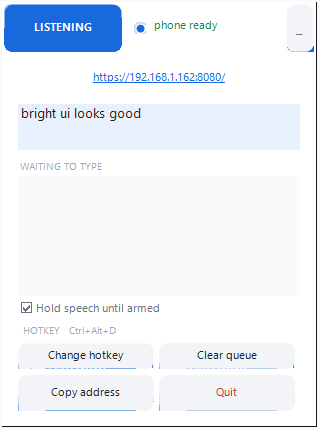
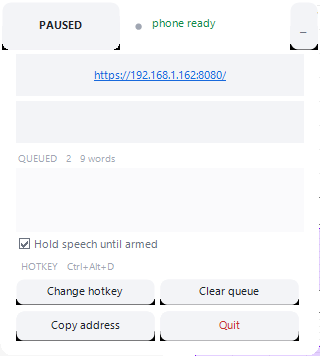
Fix aliased text: stop using TransparencyKey
TransparencyKey switches the window into a layered mode where GDI text
antialiasing is switched off, so every custom-painted string rendered
jagged. Replaced it with a Region clip in OnPaint, which keeps the rounded
corners and leaves text crisp.

Also removed the last Color.Transparent back colours. They threw before
parenting, and once parented they still route through the same layered
path, so they were part of the same problem. Every painted surface now
carries an explicit colour and each OnPaint that draws text sets
ClearTypeGridFit.

Measured it rather than eyeballing: the button label now steps 81, 120,
154, 185, 215 between ink and fill. Before, the same area had a single
grey level and hard edges.

Shortened the expanded panel from 430 to 356 and replaced the blank
120px queue area with a short explanation, which is what made the
screenshot read as broken.

diff --git a/desktop/DictationBridge.cs b/desktop/DictationBridge.cs
@@ -1360,6 +1360,7 @@ namespace DictationBridge
         public static readonly Color Warn = Color.FromArgb(184, 122, 0);
         public static readonly Color Danger = Color.FromArgb(197, 48, 48);
         public static readonly Color Shadow = Color.FromArgb(28, 32, 44);
+        public static readonly Color ShadowEdge = Color.FromArgb(216, 220, 228);
 
         public static Font Ui { get { return new Font("Segoe UI", 9F); } }
         public static Font UiSmall { get { return new Font("Segoe UI", 8.25F); } }
@@ -1421,10 +1422,11 @@ namespace DictationBridge
         {
             SetStyle(ControlStyles.AllPaintingInWmPaint | ControlStyles.UserPaint
                 | ControlStyles.OptimizedDoubleBuffer, true);
-            // Not BackColor.Transparent: a custom-painted control with that
-            // back colour throws "not a valid owner window handle" unless it is
-            // parented first. Transparent-back-colour comes from the parent at
-            // paint time instead, which is what we want anyway.
+            // Explicit, not Color.Transparent: a custom-painted control given
+            // that back colour throws "not a valid owner window handle" unless
+            // it is parented first, and once parented it still routes through
+            // the layered path that aliases text.
+            BackColor = Skin.Surface;
             Size = new Size(12, 12);
         }
 
@@ -1467,10 +1469,16 @@ namespace DictationBridge
         {
             SetStyle(ControlStyles.AllPaintingInWmPaint | ControlStyles.UserPaint
                 | ControlStyles.OptimizedDoubleBuffer, true);
+            // An explicit parent colour rather than Color.Transparent, which
+            // throws before parenting and, on a parent, still forces the
+            // layered rendering path that makes text jagged.
+            BackColor = Skin.Surface;
         }
 
         protected override void OnPaint(PaintEventArgs e)
         {
+            e.Graphics.TextRenderingHint =
+                System.Drawing.Text.TextRenderingHint.ClearTypeGridFit;
             // Graphics.DrawString wants a StringFormat, not TextFormatFlags.
             using (StringFormat f = new StringFormat())
             {
@@ -1509,6 +1517,7 @@ namespace DictationBridge
         {
             SetStyle(ControlStyles.AllPaintingInWmPaint | ControlStyles.UserPaint
                 | ControlStyles.OptimizedDoubleBuffer, true);
+            BackColor = Skin.Surface;
         }
 
         protected override void OnPaint(PaintEventArgs e)
@@ -1547,17 +1556,19 @@ namespace DictationBridge
             FlatStyle = FlatStyle.Flat;
             UseVisualStyleBackColor = false;
             FlatAppearance.BorderSize = 0;
-SetStyle(ControlStyles.AllPaintingInWmPaint | ControlStyles.UserPaint
+            SetStyle(ControlStyles.AllPaintingInWmPaint | ControlStyles.UserPaint
                 | ControlStyles.OptimizedDoubleBuffer, true);
+            BackColor = Skin.Surface;
         }
 
         protected override void OnPaint(PaintEventArgs e)
         {
             Graphics g = e.Graphics;
             g.SmoothingMode = SmoothingMode.AntiAlias;
+            g.TextRenderingHint =
+                System.Drawing.Text.TextRenderingHint.ClearTypeGridFit;
             bool hot = Enabled && IsDefault;
-            Color fill = Primary ? (hot ? Skin.Accent : Skin.Accent)
-                : (hot ? Hover : Fill);
+            Color fill = hot ? Hover : Fill;
             Color ink = Primary ? Color.White : Ink;
 
             Rectangle r = new Rectangle(0, 0, Width - 1, Height - 1);
@@ -1613,10 +1624,11 @@ SetStyle(ControlStyles.AllPaintingInWmPaint | ControlStyles.UserPaint
         private PaintText _phoneState;
         private PaintCard _lastCard;
         private Label _listHeader;
+        private Label _emptyNote;
 
         // One place that owns the sizes, so expand and collapse cannot disagree.
         private static readonly Size CollapsedSize = new Size(320, 56);
-        private static readonly Size ExpandedSize = new Size(320, 430);
+        private static readonly Size ExpandedSize = new Size(320, 356);
         private const string PositionFile = "dictation-bridge-position.txt";
 
         public MainForm(Bridge bridge, string url, HotkeyWindow hotkeys)
@@ -1643,36 +1655,18 @@ SetStyle(ControlStyles.AllPaintingInWmPaint | ControlStyles.UserPaint
             ShowInTaskbar = false;
             MinimizeBox = false;
             MaximizeBox = false;
-            Padding = new Padding(1);
-            try { DoubleBuffered = true; } catch (Exception) { }
+            Padding = new Padding(0);
+            // No TransparencyKey. It switches the window into a layered mode where
+            // GDI text antialiasing is switched off, so every custom-painted
+            // string comes out jagged. An opaque card with rounded corners is
+            // both crisper and simpler.
+            BackColor = Skin.ShadowEdge;
+            SetStyle(ControlStyles.AllPaintingInWmPaint | ControlStyles.UserPaint
+                | ControlStyles.OptimizedDoubleBuffer | ControlStyles.ResizeRedraw, true);
 
-            // Soft shadow, the detail that makes a floating panel look deliberate.
-            try
-            {
-                BackColor = Color.FromArgb(0, 0, 0);
-                TransparencyKey = Color.FromArgb(0, 0, 0);
-                var shadow = new Panel
-                {
-                    Dock = DockStyle.Fill,
-                    BackColor = Color.FromArgb(0, 0, 0),
-                    Padding = new Padding(1, 1, 2, 2)
-                };
-                Controls.Add(shadow);
-                var surface = new Panel
-                {
-                    Dock = DockStyle.Fill,
-                    BackColor = Color.FromArgb(22, 24, 28),
-                    Padding = new Padding(0, 0, 1, 1)
-                };
-                shadow.Controls.Add(surface);
-                BuildUi(surface);
-            }
-            catch (Exception)
-            {
-                // Transparency unsupported: fall back to a plain panel.
-                Controls.Clear();
-                BuildUi(this);
-            }
+            BuildUi(this);
+            ResizeRounded();
+            Resize += (s, e) => ResizeRounded();
 
             _bridge.Changed += Refresh2;
             _timer = new System.Windows.Forms.Timer { Interval = 700 };
@@ -1856,7 +1850,7 @@ private void BuildUi(Control host)
                 Font = Skin.UiSmall,
                 LinkColor = Skin.Accent,
                 ActiveLinkColor = Skin.Accent,
-                BackColor = Color.Transparent
+                BackColor = Skin.Field
             };
             _urlLink.Text = _url;
             _urlLink.LinkClicked += (s, e) => Copy(_url);
@@ -1864,21 +1858,21 @@ private void BuildUi(Control host)
             urlCard.Controls.Add(urlBg);
             urlBg.SendToBack();
 
-            // Last typed utterance, shown as a quote with an accent bar.
+// Last typed utterance, shown as a quote with an accent bar.
             var lastRow = new Panel
             {
                 Dock = DockStyle.Top,
-                Height = 58,
+                Height = 52,
                 BackColor = Skin.Surface,
-                Padding = new Padding(0, 6, 0, 6)
+                Padding = new Padding(0, 5, 0, 5)
             };
             // Only the left accent bar is painted; the fill belongs to the
             // TextBox, which sits on top of it.
             _lastCard = new PaintCard
             {
                 Dock = DockStyle.Fill,
-                Fill = Color.Transparent,
-                Corner = 0,
+                Fill = Skin.AccentSoft,
+                Corner = 8,
                 Accent = Skin.Accent
             };
             // A read-only TextBox cannot take Color.Transparent either, so the card
@@ -1928,11 +1922,24 @@ private void BuildUi(Control host)
             };
             listWrap.Controls.Add(_bufferList);
 
+            // An empty queue is a normal state, not a broken table. Say so
+            // instead of leaving a blank rectangle sitting there.
+            _emptyNote = new Label
+            {
+                Dock = DockStyle.Fill,
+                Text = "Nothing waiting.\r\n\r\nSpeak while paused and it is\r\ntyped when you press play.",
+                Font = Skin.UiSmall,
+                ForeColor = Skin.InkFaint,
+                TextAlign = ContentAlignment.MiddleCenter,
+                BackColor = Skin.Page
+            };
+            listWrap.Controls.Add(_emptyNote);
+
             // ---- footer ----------------------------------------------------
             var bottom = new TableLayoutPanel
             {
                 Dock = DockStyle.Bottom,
-                Height = 118,
+                Height = 112,
                 BackColor = Skin.Surface,
                 ColumnCount = 2,
                 RowCount = 4
@@ -1953,7 +1960,7 @@ private void BuildUi(Control host)
                 Font = Skin.UiSmall,
                 ForeColor = Skin.InkSoft,
                 FlatStyle = FlatStyle.Flat,
-                BackColor = Color.Transparent
+                BackColor = Skin.Surface
             };
             _flushBox.FlatAppearance.BorderSize = 0;
             _flushBox.CheckedChanged += (s, e) =>
@@ -2043,6 +2050,42 @@ private void BuildUi(Control host)
             c.MouseDown += OnDragStart;
             c.MouseMove += OnDragMove;
             c.MouseUp += OnDragEnd;
+        }
+
+        // Rounded corners via a Region rather than a transparency key: the shape is
+        // clipped at paint time so the card edges stay crisp and the text inside
+        // keeps GDI antialiasing.
+        private void ResizeRounded()
+        {
+            try
+            {
+                using (GraphicsPath p = Skin.RoundedPath(
+                    new Rectangle(0, 0, Width - 1, Height - 1), 12))
+                {
+                    Region = new Region(p);
+                }
+            }
+            catch (Exception) { }
+        }
+
+        protected override void OnPaint(PaintEventArgs e)
+        {
+            Graphics g = e.Graphics;
+            g.SmoothingMode = SmoothingMode.AntiAlias;
+            g.TextRenderingHint =
+                System.Drawing.Text.TextRenderingHint.ClearTypeGridFit;
+            using (SolidBrush b = new SolidBrush(Skin.Surface))
+            {
+                g.FillRectangle(b, ClientRectangle);
+            }
+            using (Pen edge = new Pen(Skin.ShadowEdge))
+            {
+                using (GraphicsPath p = Skin.RoundedPath(
+                    new Rectangle(0, 0, Width - 2, Height - 2), 12))
+                {
+                    g.DrawPath(edge, p);
+                }
+            }
         }
 
         private void OnDragStart(object sender, MouseEventArgs e)
@@ -2160,6 +2203,7 @@ private void BuildUi(Control host)
             {
                 bool hasText = !string.IsNullOrEmpty(_bridge.LastText);
                 _lastCard.Accent = hasText ? Skin.Accent : (Color?)null;
+                _lastCard.Fill = hasText ? Skin.AccentSoft : Skin.Field;
                 _lastCard.Invalidate();
                 _lastText.BackColor = hasText ? Skin.AccentSoft : Skin.Field;
             }
@@ -2173,9 +2217,15 @@ private void BuildUi(Control host)
                 if (buffered > 0) _bufferList.TopIndex = _bufferList.Items.Count - 1;
             }
             _listHeader.Text = buffered == 0
-                ? "WAITING TO TYPE"
+                ? "QUEUE"
                 : "QUEUED   " + buffered + (_bridge.WordCount > 0
                     ? "   " + _bridge.WordCount + " words" : "");
+
+            if (_emptyNote != null)
+            {
+                _emptyNote.Visible = buffered == 0;
+                _bufferList.Visible = buffered > 0;
+            }
         }
     }
 

diff --git a/AGENTS.md b/AGENTS.md
@@ -47,9 +47,15 @@ the newest syntax. Use `var`, `function`, promises, and nothing newer.
   taskbar button defeats the point of a floating helper.
 - The palette lives in `Skin`. Everything is painted by `Skin.RoundedPath` and
   the small `Paint*` controls; do not reintroduce stock grey WinForms buttons.
-- A custom-painted control cannot set `BackColor = Color.Transparent` before it
-  is parented: it throws "not a valid owner window handle". Neither can a
-  `TextBox`. Let the parent paint the background instead.
+- Never use `TransparencyKey` on this form. It switches the window into a
+  layered mode that turns GDI text antialiasing off, so every custom-painted
+  string comes out jagged. Round the corners with a `Region` in `OnPaint`
+  instead, and keep `Color.Transparent` out of it: a custom-painted control
+  or a `TextBox` given that back colour throws "not a valid owner window
+  handle" before it is parented, and once parented it still routes through
+  the layered path.
+- Set `TextRenderingHint = ClearTypeGridFit` in every custom `OnPaint` that
+  draws text, or the labels alias even without the transparency key.
 - Everything below the strip must be a child of `_detail`, never of `_body`.
   Adding the bottom bar to `_body` left its buttons drawn on top of the collapsed
   strip, where they swallowed clicks aimed for the expand button and closed the
